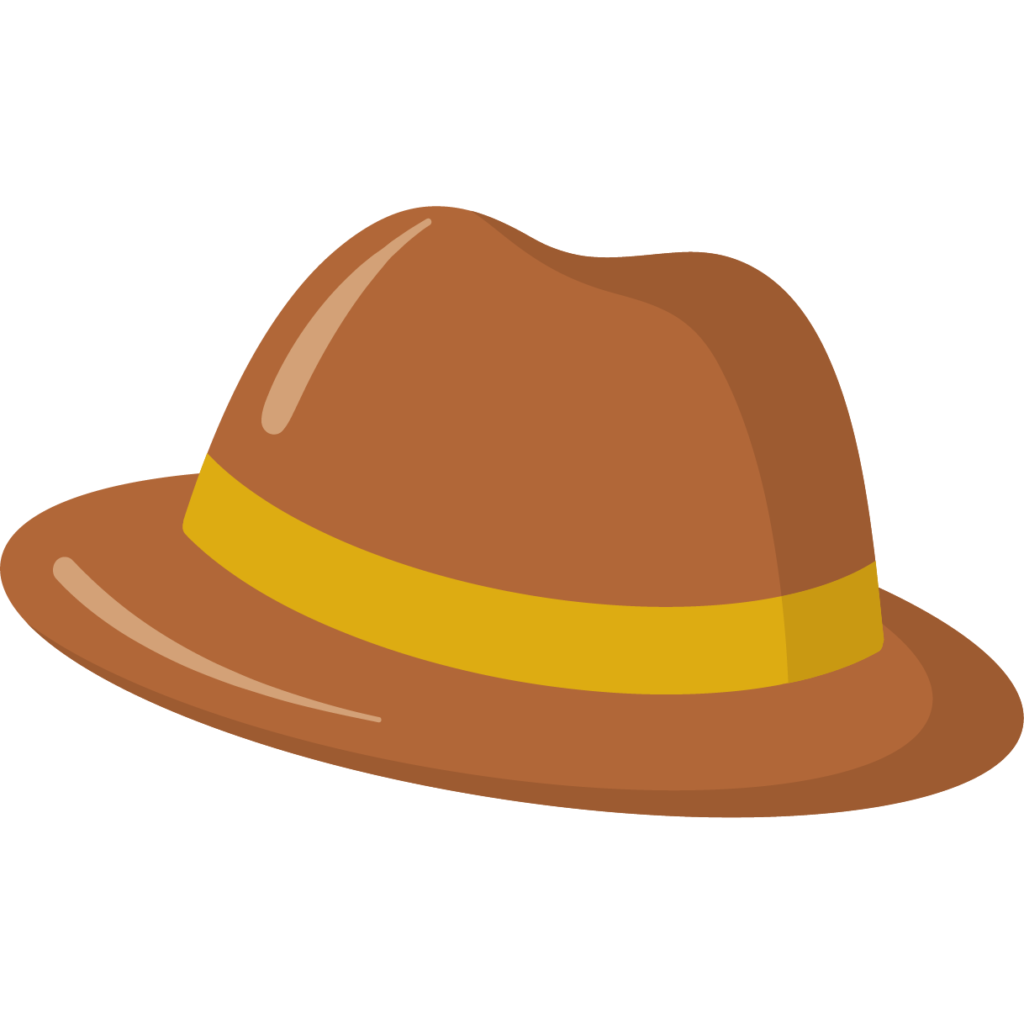
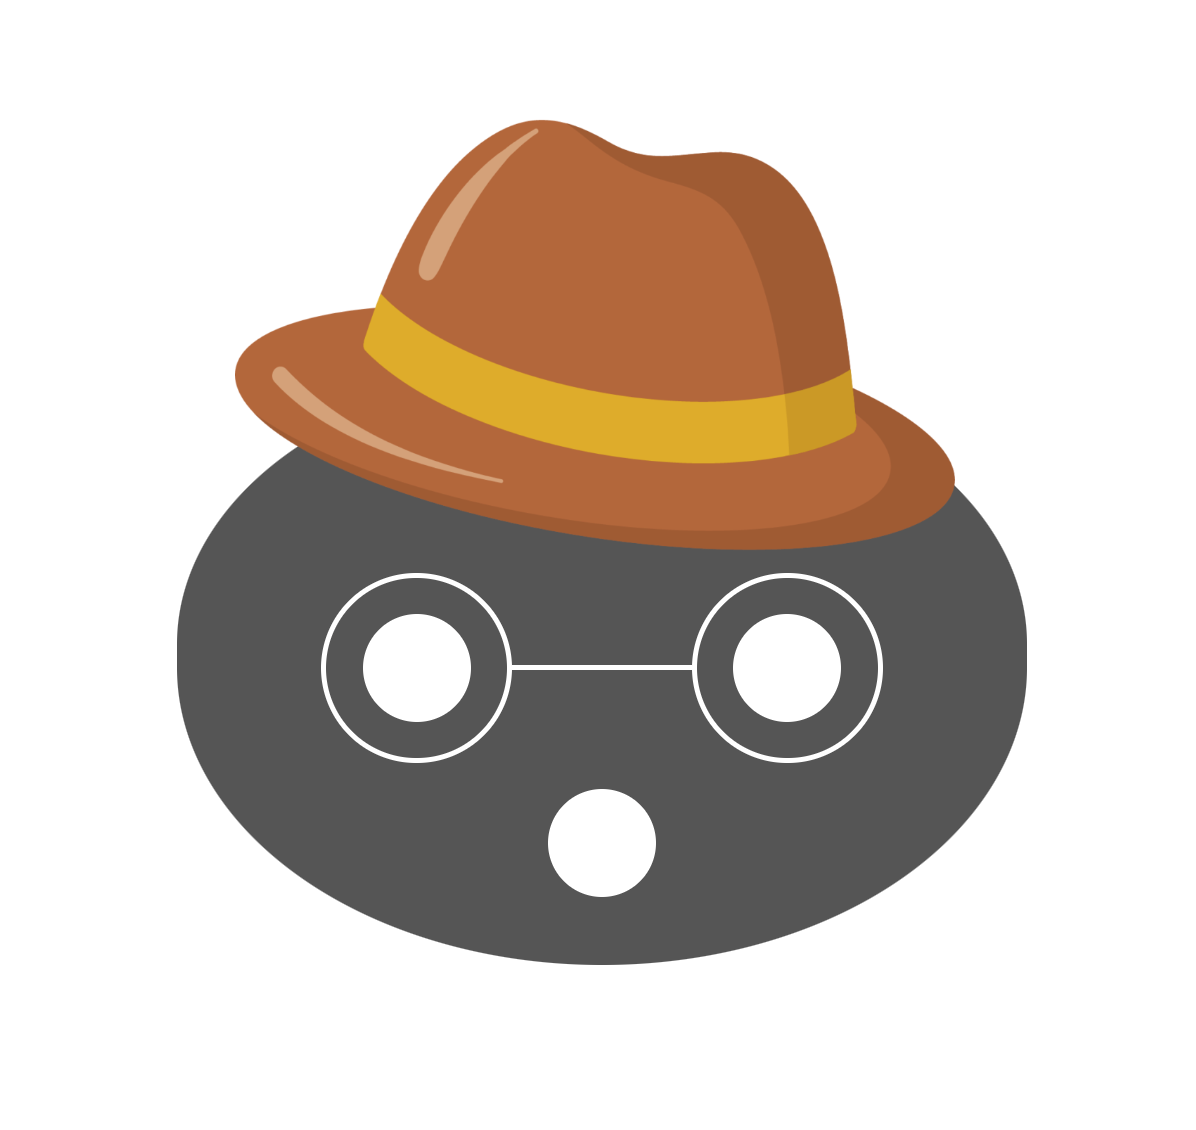
resim düzenlendi

diff --git a/7. Glasses/glasses.html b/7. Glasses/glasses.html
@@ -58,7 +58,7 @@
       }
 
       .cizgi {
-        border: 3px solid #fff;
+        border-top: 3px solid #fff;
         width: 100px;
       }
     </style>
